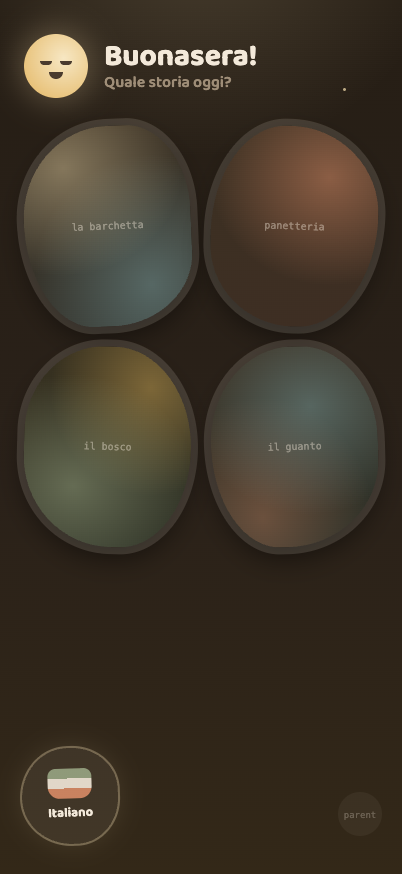
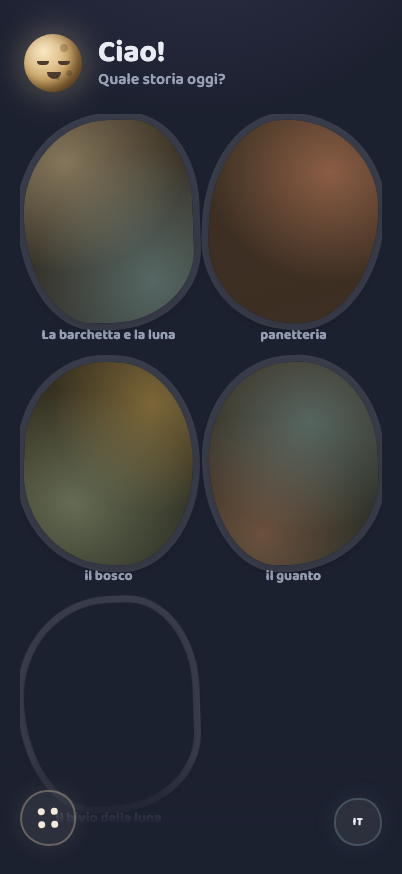
docs(design): sync design-system with the overhaul (AI-441)
Indigo-only palette + token table, dusk default, orchid = make CTA,
portrait covers, settings sheet sections, grown-up gate, parent area
(tabs, delete-only family stories, read-only shared), run-state labels.
Recaptured the child shelf/settings journey; older captures marked as
pre-overhaul.

diff --git a/docs/design/design-system.md b/docs/design/design-system.md
@@ -1,152 +1,170 @@
 # Cantastorie Design System — the sticker-book
 
-> Warm, wobbly, and slow. Bedtime, not Saturday cartoons.
+> Wobbly and slow, lit by moonlight. Bedtime, not Saturday cartoons.
 
 Source of truth: the Claude Design project *Cantastorie design system*
-(Foundations + Prototype, locked from explorations 3a + 3b). This document
-records how those foundations live in code.
+(`design_handoff/` — `Cantastorie Foundations.dc.html` and
+`Cantastorie Site.dc.html` are interactive references, not code to copy).
+This document records how those foundations live in code after the design
+overhaul (AI-441, branch `feature/design-overhaul`, 2026-09-13 → 2026-09-27).
+
+## Contents
+
+- [Where it lives](#where-it-lives)
+- [The rules, briefly](#the-rules-briefly)
+- [Colour: one palette, two modes](#colour-one-palette-two-modes)
+- [The child player](#the-child-player)
+- [The parent area](#the-parent-area)
+- [The workshop](#the-workshop)
+- [The journey](#the-journey)
 
 ## Where it lives
 
 | Layer | File |
 |-------|------|
-| Tokens (color, type, motion, shape) — 4 palettes × 2 modes | [`src/static/css/tokens.css`](../../src/static/css/tokens.css) |
-| Palette selection (whole app) | [`src/static/js/palette.js`](../../src/static/js/palette.js) |
-| Screens & components (child player) | [`src/static/css/player.css`](../../src/static/css/player.css) |
+| Tokens (colour, type, motion, shape) — indigo × light/dusk | [`src/static/css/tokens.css`](../../src/static/css/tokens.css) |
+| Theme selection, before first paint | [`src/static/js/palette.js`](../../src/static/js/palette.js) (testable twin: [`palette-resolve.js`](../../src/static/js/palette-resolve.js)) |
+| Child player screens & components | [`src/static/css/player.css`](../../src/static/css/player.css), [`src/static/js/screens.js`](../../src/static/js/screens.js) |
+| Child player boot, languages, end screen copy | [`src/static/js/main.js`](../../src/static/js/main.js) |
 | State machine | [`src/static/js/store.js`](../../src/static/js/store.js) |
-| Rendering | [`src/static/js/screens.js`](../../src/static/js/screens.js) |
-| Workshop screens (operator) | [`src/static/css/workshop.css`](../../src/static/css/workshop.css) + [`src/templates/workshop/`](../../src/templates/workshop/) + [`src/static/js/workshop.js`](../../src/static/js/workshop.js) |
+| Parent area + workshop (server-rendered) | [`src/static/css/workshop.css`](../../src/static/css/workshop.css), [`src/templates/parent/`](../../src/templates/parent/), [`src/templates/workshop/`](../../src/templates/workshop/), [`src/static/js/workshop.js`](../../src/static/js/workshop.js) |
+| Landing page | [`src/static/css/landing.css`](../../src/static/css/landing.css) |
 
 ## The rules, briefly
 
-- **Four palettes, two modes.** Colour is now a two-axis system (see
-  [Palettes](#palettes)): a palette (`indigo` default, plus `warm`, `seaglass`,
-  `plum`) crossed with a mode — light and dusk (lamplit). The shelf follows the
-  clock (dusk from 19:00); `?palette=` and `?theme=` override for development.
-  The player itself always lives at dusk — stories are bedtime.
+- **One palette, two modes, dusk by default.** Moonlit indigo in light and
+  dusk. The whole app — landing, child player, parent area, workshop — opens
+  at dusk. See [Colour](#colour-one-palette-two-modes).
+- **Semantic tokens, never raw hues.** Screens reference `--surface`,
+  `--ink`, `--primary`, `--accent`… — never a hex. The single allowed literal
+  is `#FFFDF7`, the text colour on filled buttons.
+- **Orchid means *make*.** `--accent` (orchid `#A88BE0`) is reserved for the
+  create call-to-action (`ws-pill-accent`: "+ Make a story", "Make our
+  story"). Indigo `--primary` carries other actions; sage `--confirm` carries
+  navigation and confirmation.
 - **Two typefaces only.** Baloo 2 for everything the app says; Literata for
-  everything the story says (reading mode, later).
-- **The wobble** belongs to the child's world: blob border-radii (42–58% /
-  40–60%), tilts ±1.5–3° alternating, sticker rings. Parent UI keeps the
-  palette but calms the shapes.
-- **Watercolor washes** are 2–3 radial gradients of accent colors over a warm
-  base — placeholders until pipeline art lands.
-- **Glow, not lightness, at dusk.** Halos of moonlight at 15–25% alpha replace
-  bright surfaces.
-- **Slow crossfades only** (600–900 ms). Nothing snaps, flashes, or bounces.
-- **Beads, never numbers.** Progress is a string of colored beads; the current
-  one is bright, the past ones settled, the future ones faint.
-- **Child targets ≥ 96 px**; parent UI and reading-mode words ≥ 44 px.
+  everything the story says.
+- **The wobble belongs to the child's world**: blob border-radii (42–58% /
+  40–60%), alternating tilts of ±1.5–2°, sticker rings. Parent and operator UI
+  keep the tokens but calm the shapes.
+- **Glow, not lightness, at dusk.** `--page-glow` halos replace bright
+  surfaces.
+- **Slow crossfades only** (`--fade` 900 ms, `--fade-quick` 600 ms). Nothing
+  snaps, flashes, or bounces.
+- **Beads, never numbers.** Progress is a string of beads — in the player and
+  on the pipeline's run card alike.
+- **Child targets ≥ 96 px** where the design allows, never under 48 px (an
+  e2e test pins every shelf cover at ≥ 48 px); parent UI ≥ 44 px.
 
-## Palettes
+## Colour: one palette, two modes
 
-Colour used to be a single warm cream-and-terracotta look. It is now a
-**two-axis system**: a *palette* (the hues) crossed with a *mode* (light or
-dusk). Both the child shelf/player and the operator workshop obey it.
+The overhaul collapsed the four-palette system (indigo, warm, seaglass, plum)
+to **indigo only** (AI-453). `<html>` still carries `data-palette="indigo"`
+so the selector shape is stable, but no other value is accepted.
 
-| Palette | Name | Feel |
-|---------|------|------|
-| `indigo` **(default)** | Moonlit indigo | Cool slate and periwinkle — the new house look. |
-| `warm` | Warm cream | The original Anthropic-adjacent cream and terracotta. |
-| `seaglass` | Sea glass & slate | Muted teal-green over cool stone. |
-| `plum` | Plum & lantern | Soft aubergine with a lantern-gold accent. |
+| Token | Light | Dusk | Role |
+|-------|-------|------|------|
+| `--surface` | `#F2F4F8` | `#1C2130` | Page ground |
+| `--card` | `#FFFFFF` | `#2A3044` | Raised surfaces, sheets |
+| `--ink` / `--ink-soft` | `#2F3646` / `#7C8598` | `#E8EBF2` / `#97A0B5` | Text, captions |
+| `--primary` | `#5566A8` | `#8B9AD6` | Default action |
+| `--confirm` | `#5E8A72` | `#7FA98D` | Navigation, confirm |
+| `--accent` | `#A88BE0` | `#A88BE0` | Orchid — the make CTA |
+| `--rest` | `#A85E68` | `#C08087` | A run that stopped ("rested") |
 
-**Semantic tokens, not raw hues.** [`tokens.css`](../../src/static/css/tokens.css)
-defines one semantic set — `--surface`, `--card`, `--ink`, `--primary`,
-`--confirm`, `--accent`, `--info`, `--rest`, and their derived alphas — for
-every palette × mode. Screens reference the semantic names; they never hardcode
-a hex. Legacy aliases (`--terracotta → --primary`, `--sage → --confirm`,
-`--honey → --accent`, `--sea → --info`) let `player.css` and the shelf ride the
-system without a rewrite.
+`--rest` is deliberately distinct from `--primary` in both modes (a tokens
+e2e test enforces it), so a rested run never reads as an ordinary action.
+Legacy aliases (`--terracotta`, `--sage`, `--honey`, `--sea`…) remain at the
+bottom of `tokens.css` for older `player.css` rules.
 
-**Selection contract.** `<html>` carries `data-palette` and `data-theme`.
-A tiny synchronous head script,
-[`palette.js`](../../src/static/js/palette.js), sets both before first paint
-(no flash):
+**Theme selection.** `palette.js` runs synchronously in `<head>` and sets
+`data-theme` before first paint:
 
-- **palette** = `?palette=` if valid (and persisted) → else
-  `localStorage["cantastorie-palette"]` → else `indigo`.
-- **theme** = `?theme=light|dusk` → else dusk when the local hour ≥ 19.
+- `?theme=light|dusk` wins;
+- otherwise **dusk** (AI-459).
 
-It exposes `window.cantastoriePalette.set(name)` for the switcher UI (the
-four-dot row on the workshop bench). No-JS fallback is indigo light.
+The child player applies the same rule at boot (`main.js` `pickTheme`). The
+settings sheet's *Light* section offers **Day**, **By itself** (dusk from
+19:00 to 07:00, light otherwise) and **Evening**.
 
-## The user journey
+## The child player
 
-Captured from the running shell (402×874, `make dev` + Playwright):
+- **Shelf.** A sphere-lit moon mascot with a spoken greeting, a two-column
+  grid of wobbly covers, a language sticker (one tap cycles the eight
+  languages) and a settings button drawn as 2×2 dots. Each cover is a
+  `.cover-card`: the tappable `.cover` plus its caption *below* the art, never
+  over it. Family stories carry an orchid ring and a star badge and sort
+  first.
+- **Portrait covers.** A cover shows `story.cover` (the pipeline's portrait
+  image), falling back to the first page's art, then to a watercolour wash
+  (`coverSrc` in `story.js`).
+- **Settings sheet.** A bottom sheet with three labelled sections —
+  **Language** (eight flag tiles: it, es, en, el, de, bg, ru, mr),
+  **Light** (Day / By itself / Evening) and **For grown-ups** (the
+  **Read with me** toggle, which shows page text in the player, and
+  **The workshop**, locked behind the grown-up math gate) — closed by a
+  **Done** pill. All copy is localized per language.
+- **Grown-up gate.** A sum with three picture-free number choices; wrong
+  answers say so, *Back* dismisses.
+- **End screen.** Replay and back-to-shelf blobs, in the story's language
+  ("Di nuovo!" / "Un'altra storia?").
 
-| | |
-|---|---|
-| ![Shelf, light](journey/01-shelf-light.png) | **1 · The shelf, light.** Sun mascot, spoken greeting caption, four wobbly story covers, the Italiano sticker, and the deliberately quiet parent corner. |
-| ![Shelf, dusk](journey/02-shelf-dusk.png) | **2 · The shelf at dusk.** The sleepy moon replaces the sun, stars come out, covers dim to lamplight — same shelf, later hour. |
-| ![Player](journey/03-player-page1.png) | **3 · A story begins.** Full-bleed watercolor night, bead progress, the exit sticker, and the one and only control: the 140 px play-pause blob. |
-| ![Choice](journey/04-choice-overlay.png) | **4 · The choice.** The page dims; two glowing picture cards with spoken labels. A tap branches the story; a sleeping child auto-continues. |
-| ![Resume](journey/05-resume-offer.png) | **5 · Coming back.** An unfinished story asks: continue, or start again? Two pictures, no reading required. |
-| ![Moon path](journey/06-player-moonpath.png) | **6 · Deep in the story.** Each page is its own watercolor wash, crossfaded at 900 ms. |
-| ![The end](journey/07-story-end.png) | **7 · Fine!** Replay or another story — and after twenty quiet seconds, a goodnight. |
+## The parent area
 
-## What the shell is (and isn't)
+Server-rendered on the shared `auth/base.html` shell (Clerk sign-in), styled
+by `workshop.css` with calmed shapes.
 
-This is the **design shell**: real screens, real state machine (page turns,
-choice, resume, persistence), with a timer standing in for narration and CSS
-washes standing in for pipeline art. The audio engine, real
-`story.json`, and spoken prompts replace those stand-ins in Slice 1
-(see the Linear project).
+- **Tabs with counts**: *Your stories · N* and *Being made · N*.
+- **Your stories**: a filter bar (*All languages ▾*, *Sort ▾*), the family's
+  own stories, and an empty state when there are none. Family stories are
+  **delete-only**: a quiet `×` arms to *Delete for good?*. There is no hide.
+- **Shared with every family**: read-only cards with a *shared* badge and
+  *on the shelf* — no delete, no hide.
+- **Make a story** (`/parent/make`) is its own screen with a back button, a
+  note card, and the orchid *Make our story* button.
+- **Staged review** (`/parent/staged/{id}`): the story page by page before
+  approval, family-scoped.
 
-## The workshop — the room behind the piazza
+## The workshop
 
-The operator face at `/workshop`
-([ADR-005](../adr/ADR-005-workshop-area.md), AI-388): sign in with one
-secret, start a pipeline run, watch its steps land, review the staged story
-page by page, approve & publish. Unlike the shell above this is **real,
-shipped code** — server-rendered Jinja2 + HTMX, with a progress fragment
-that re-polls itself every 2 s while a run is live.
+The operator face at `/workshop` ([ADR-005](../adr/ADR-005-workshop-area.md)):
+server-rendered Jinja2 + HTMX, with a progress fragment that re-polls every
+2 s while a run is live. Vanilla `workshop.js` handles the stories stepper,
+the armed two-tap delete and the review audio pill.
 
-### As built (the sticker-book, AI-395)
+- **Run-state labels.** Operators and parents see friendly labels over the
+  internal states: `failed` → **rested**, `staged` → **needs your eyes**,
+  `approved` → **on the shelf**; `queued`, `running` and `rejected` show as-is.
+- **Beads on the run card** follow the pipeline order — `write · revise ·
+  safety · narrate · illustrate · assemble`; settled, current and future
+  states are steady (no looping animation, since the fragment re-swaps).
+- **Custom disclosure** on the bench tucks the less-used run options away;
+  the library shows stories as cards.
+- **Armed delete, not a browser dialog**: `×` → *Sure?* → delete.
 
-The first pass was deliberately plain — palette kept, craft absent. It is now
-the design system's own look: Baloo 2 throughout, `tokens.css` semantic colours
-(so the workshop re-themes with every palette), and the parent-UI rule — keep
-the warmth, calm the shapes. Vanilla `workshop.js` (~100 lines) carries the
-three interactions HTMX can't: the stories stepper, the armed two-tap delete,
-and the review audio pill. No new dependencies; no SPA.
+## The journey
 
-- **Beads, never numbers.** Run progress is the player's bead language brought
-  to the fixed pipeline order — `write · revise · safety · narrate ·
-  illustrate · assemble`. Settled beads are sage, the current one is honey at
-  24 px with a static halo, future ones faint. Because the progress fragment
-  `outerHTML`-swaps every 2 s, the states are *steady* — no looping animation
-  that would restart on each swap.
-- **Six states, one of them renamed.** The chip vocabulary is `queued`,
-  `running`, `staged — review`, `approved`, `rejected`, and `failed` — which
-  the operator sees as **`rested`** (a calm terracotta, not an alarm), since
-  failures are routine while the pipeline is tuned. Internal state names are
-  unchanged.
-- **Armed delete, not a browser dialog.** The old `hx-confirm` is replaced by a
-  quiet `×` that arms to "Sure?" on first tap and deletes on the second
-  (disarms on an outside tap) — the same idiom for per-story deletes on the
-  review page. The delete plumbing shipped in #32 is untouched underneath.
-- **A phone-first bench.** The runs table that overflowed at phone width is now
-  a stack of run cards (title, meta line, state chip, armed `×`); live runs
-  hide the delete affordance. Empty state: *"No runs yet — the shelf is waiting
-  for its first story."*
-- **A real review, no native controls.** Each page is a card — full-bleed
-  illustration, Literata story text, and a custom **audio pill** (play/pause
-  circle, honey progress track, `m:ss` label over a hidden `<audio>`, one
-  playing at a time) instead of clashing native `<audio>` chrome. A sticky
-  footer offers *Approve & publish* / *Reject*, shown only while the run is
-  staged.
-- **The palette switcher** lives quietly at the foot of the bench: four dots,
-  the current one ring-highlighted, calling `window.cantastoriePalette.set()`.
-
-### The operator journey
-
-Captured from the running app with seeded runs (402×874, indigo default):
+Child screens captured from the running app on 2026-09-27 (402×874, dev
+fixtures, `?lang=it`):
 
 | | |
 |---|---|
-| ![Login](journey/08-workshop-login.png) | **8 · The door.** Wordmark over *"the room behind the piazza"*, one secret, one Enter pill. No accounts — with no secret configured, the workshop answers 404 and does not exist. |
-| ![Bench](journey/09-workshop-dashboard.png) | **9 · The bench.** The start-a-run card (theme, premise, language, shape, a stories stepper) over the run cards with their state chips and armed delete — and the palette switcher at the foot. |
-| ![Run](journey/10-workshop-run.png) | **10 · A run.** The bead card: six beads on the pipeline's step order with a state headline; while live the fragment re-polls itself every 2 s, and a staged run offers *Review N pages*. |
-| ![Rested](journey/12-workshop-rested.png) | **11 · Rested.** A failed run rests calmly — a terracotta ring on the step it stopped at, the note in a mono box, and a *Run it again* pill that submits a fresh run. |
-| ![Review](journey/11-workshop-review.png) | **12 · The review.** The staged story page by page — illustration, Literata text, the custom audio pill — with the *Approve & publish* / *Reject* footer: the parent-gate promise in operator form, everything seen before publish. |
+| ![Shelf, dusk](journey/02-shelf-dusk.png) | **The shelf at dusk — the default.** Indigo ground under the moon, covers with captions below, the settings dots and the language sticker. (The last cover is the art-less `dev-branching` fixture.) |
+| ![Shelf, light](journey/01-shelf-light.png) | **The shelf, light** — chosen with *Day* or `?theme=light`. Same shelf, daylight tokens. |
+| ![Settings](journey/13-settings-sheet.png) | **Settings.** Language tiles, the Light choice, and the grown-up section with *Read with me* and the locked workshop. |
+
+The player, choice, resume and end captures below (03–07) and the workshop
+captures (08–12) **predate the overhaul** (warm palette, old chrome) and
+are kept for layout reference only. The parent area and the workshop sit
+behind Clerk sign-in and cannot be captured headlessly; refresh them from an
+authenticated session.
+
+| | |
+|---|---|
+| ![Player](journey/03-player-page1.png) | **A story begins** — full-bleed art, bead progress, exit sticker, the play-pause blob. |
+| ![Choice](journey/04-choice-overlay.png) | **The choice** — two glowing picture cards; a sleeping child auto-continues. |
+| ![Resume](journey/05-resume-offer.png) | **Coming back** — continue, or start again. |
+| ![Moon path](journey/06-player-moonpath.png) | **Deep in the story** — page art crossfaded at 900 ms. |
+| ![The end](journey/07-story-end.png) | **The end** — replay or another story. |
+| ![Bench](journey/09-workshop-dashboard.png) | **The workshop bench** (pre-overhaul). |
+| ![Review](journey/11-workshop-review.png) | **The workshop review** (pre-overhaul). |
